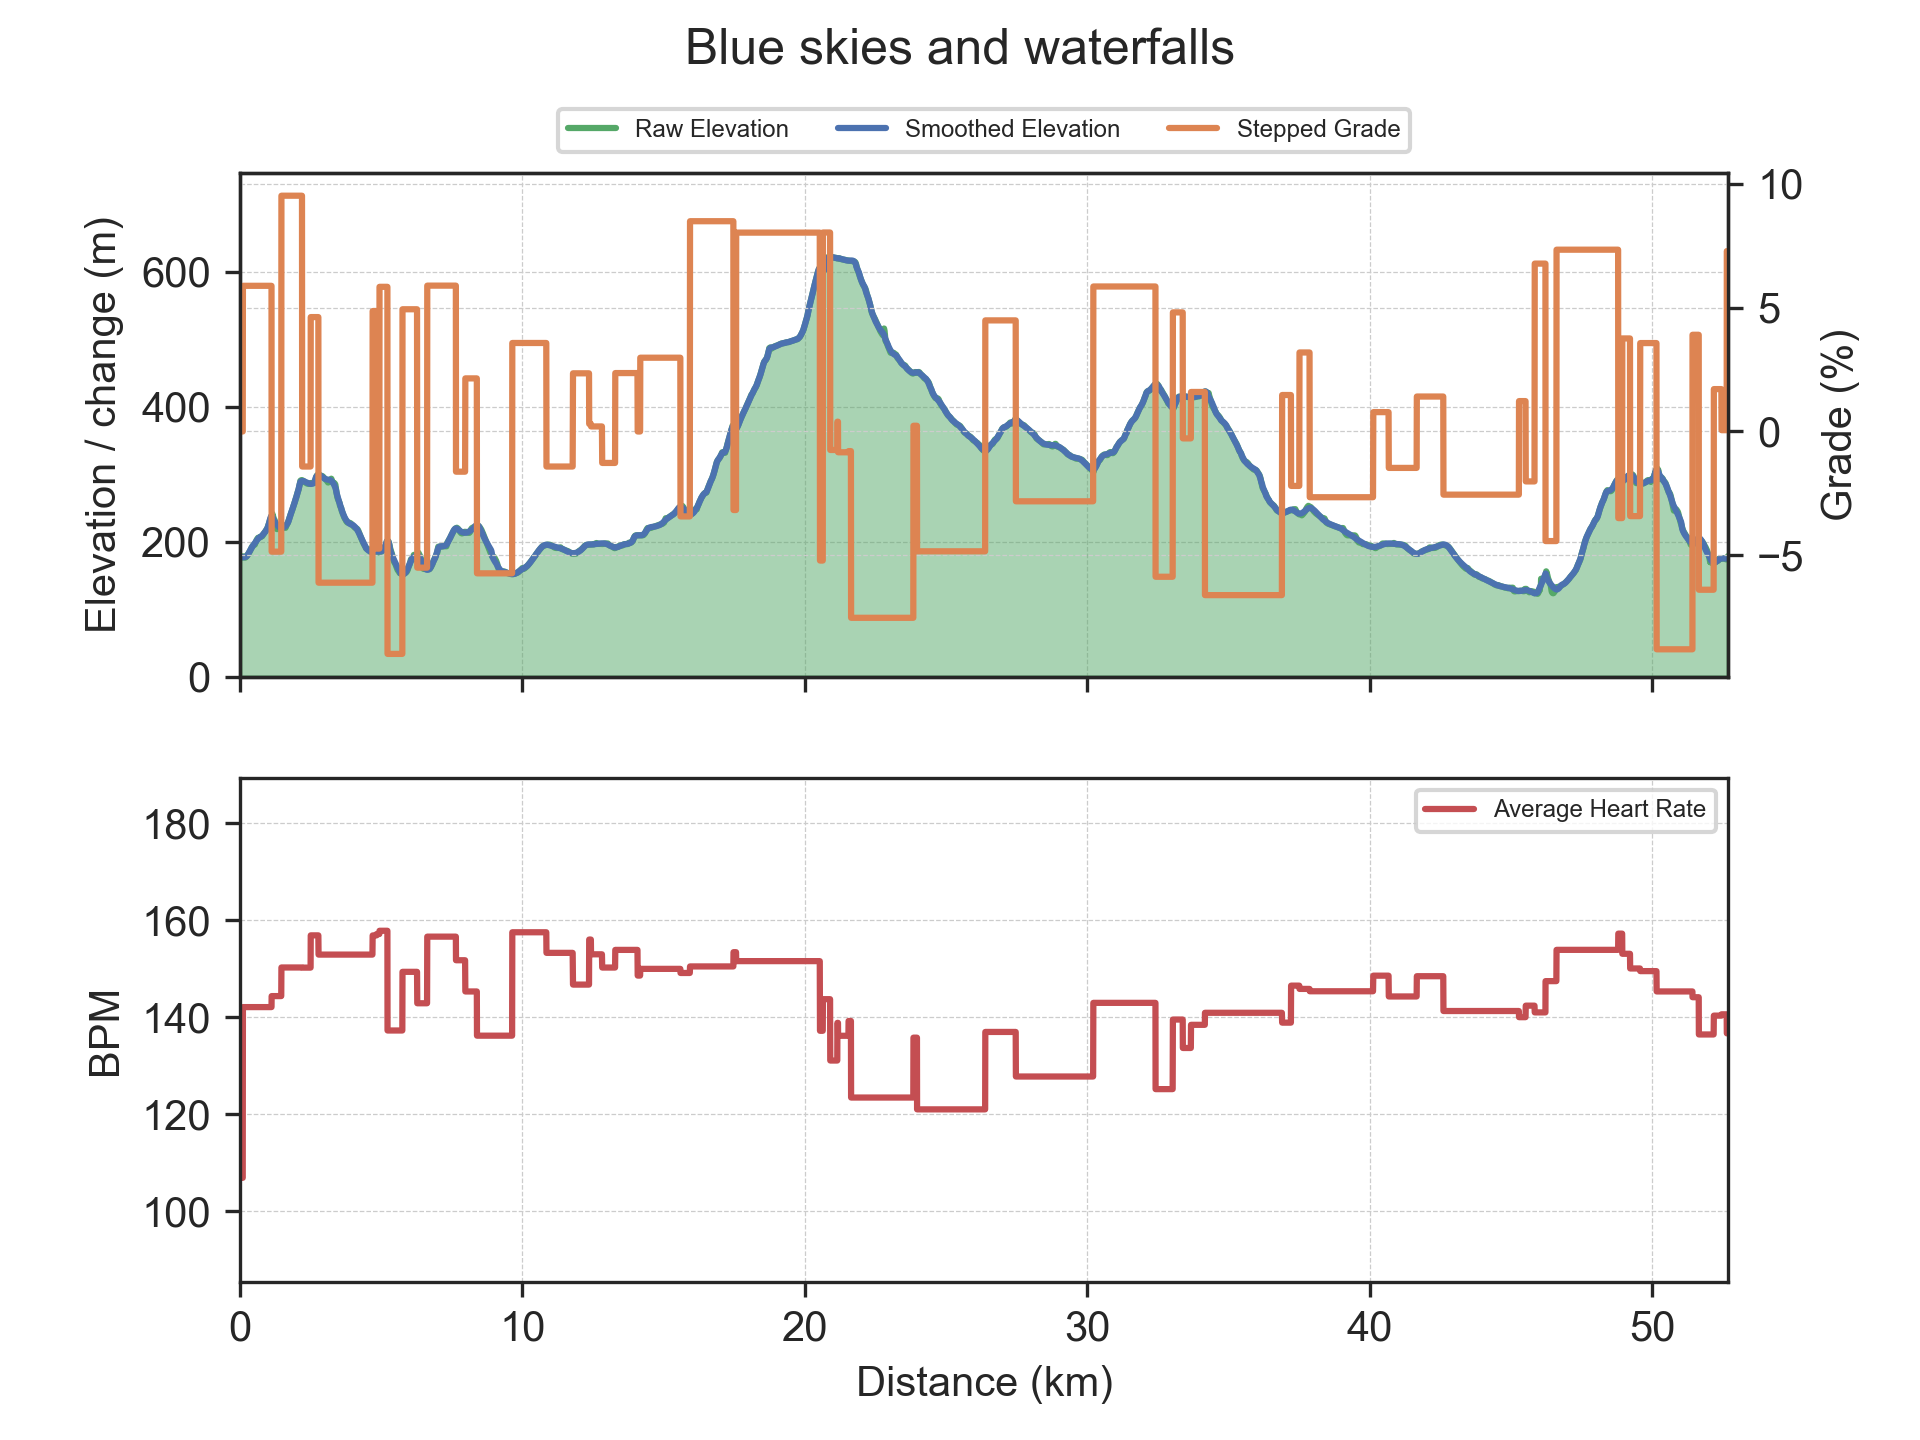
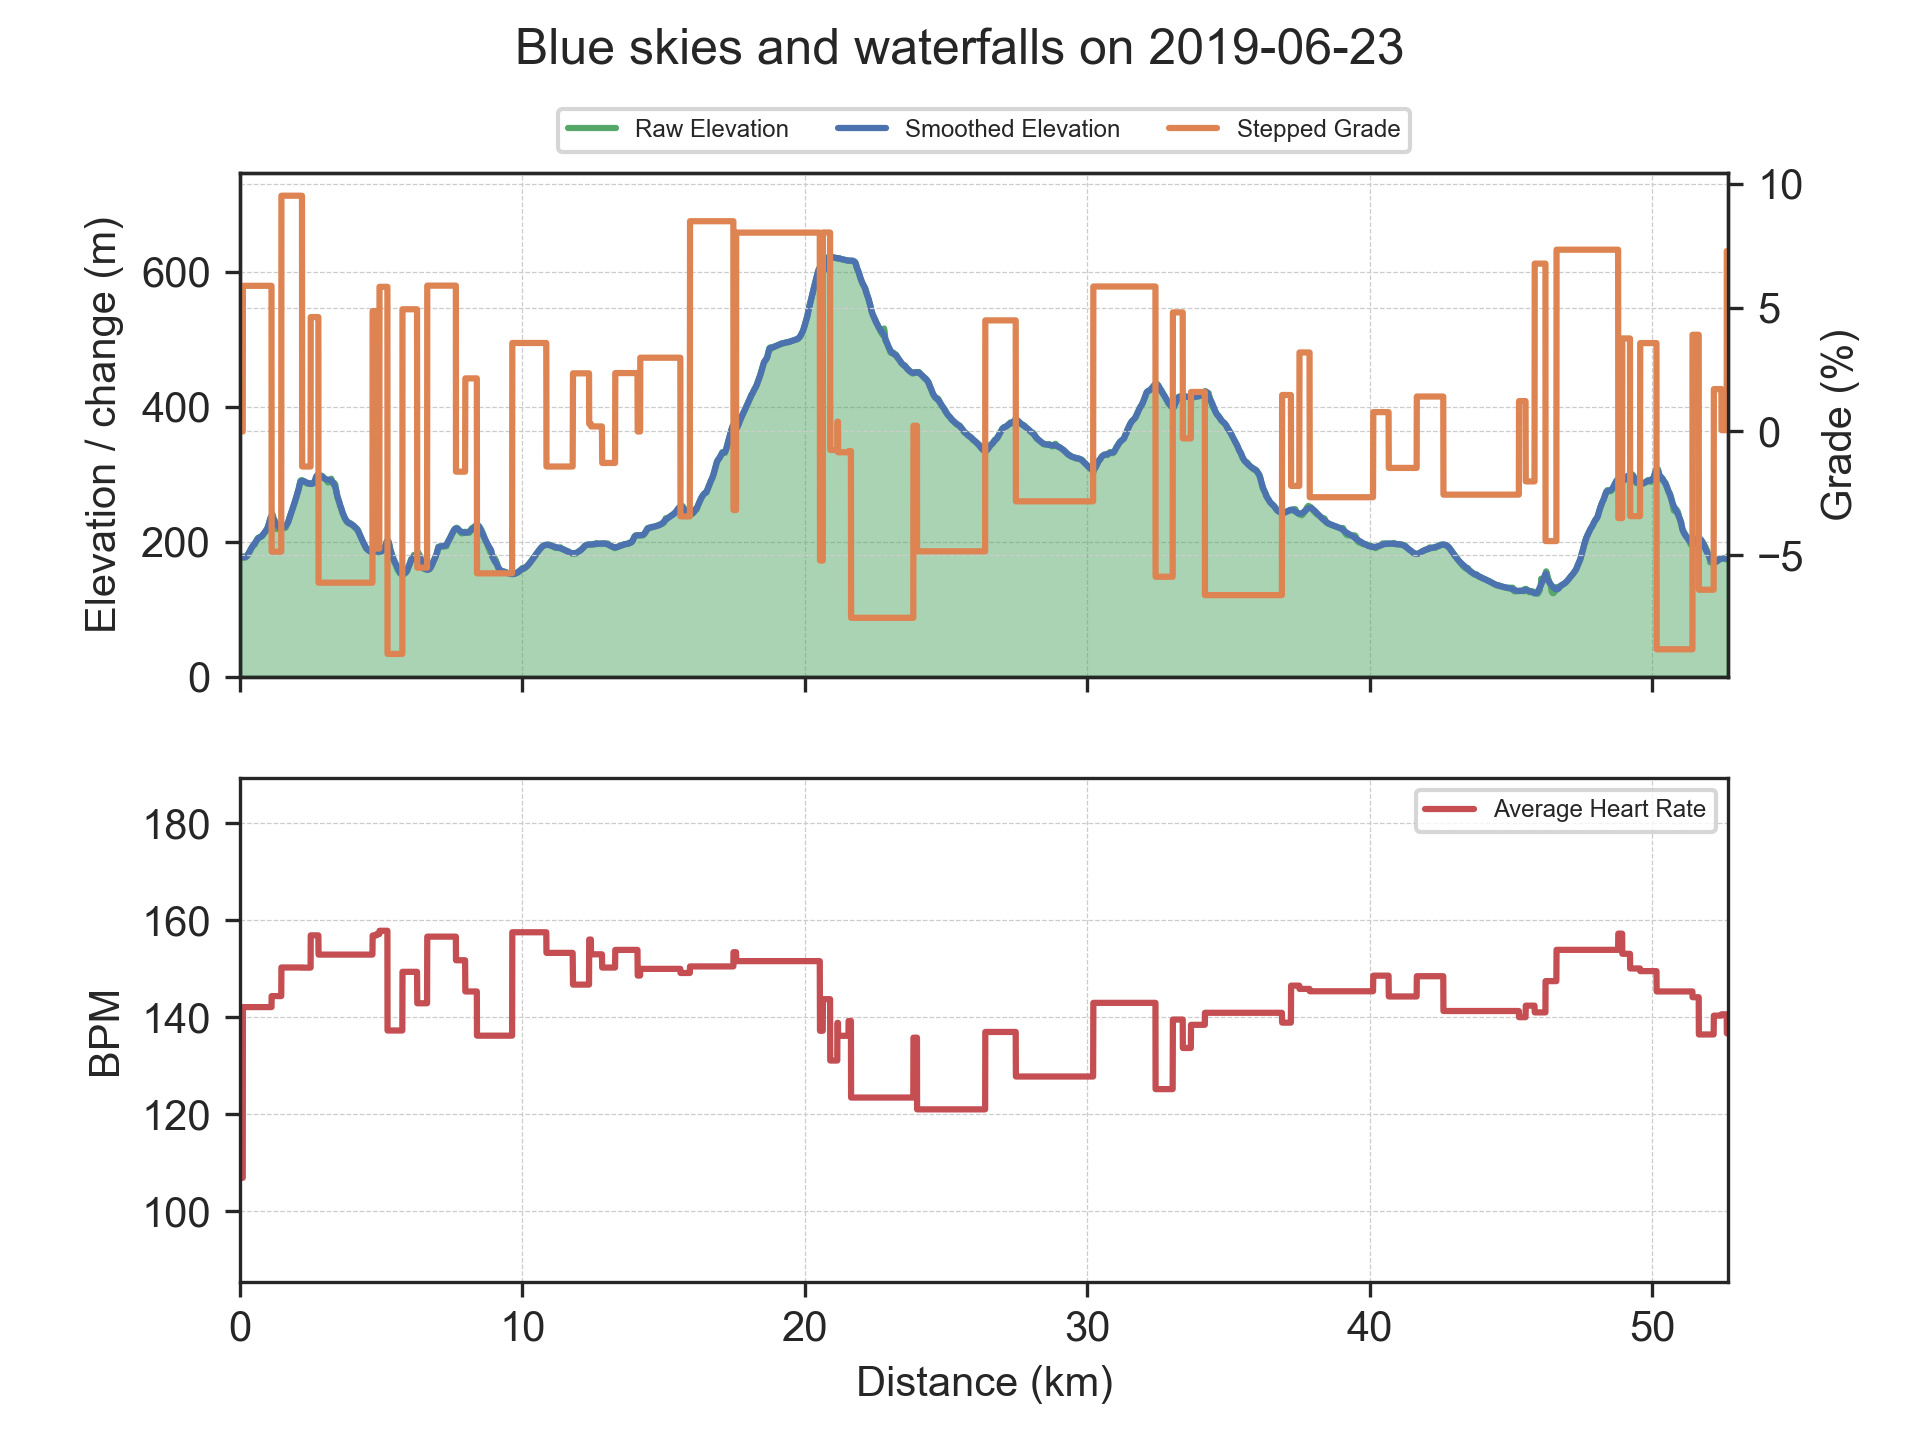
Added the date to the title
Will do time some other time – need to figure out how to deal with the timezone (marrying the GPX's UTC time and the system timezone).

Changed region(s): [[0.2812, 0.0, 0.7188, 0.0625]]

diff --git a/gpx/grade.py b/gpx/grade.py
@@ -119,7 +119,6 @@ if __name__ == "__main__":
 
     if args.plot_heart_rate and heart_rates:
         ax3.set_xlim(min(x), max(x))
-        # email me if you're alive if your heart rate exceeded 230 bpm
         ax3.set_ylim(min(heart_rate_averages)*(1 - _PLOT_PADDING), max(heart_rate_averages)*(1 + _PLOT_PADDING))
         ax3.plot(x[:-1], np.array(heart_rate_averages), color=palette[3], label='Average Heart Rate')
         ax3.set_xlabel('Distance (km)')
@@ -132,8 +131,8 @@ if __name__ == "__main__":
     ax1.legend(h1 + h2, l1 + l2, loc='upper center', bbox_to_anchor=(0.5, 1.15), ncol=3 , fontsize='xx-small')
 
     if track.name:
-        # TODO: track.get_time_bounds().start_time + date
-        f.suptitle(track.name)
+        # TODO: time
+        f.suptitle("{} on {}".format(track.name.strip(), track.get_time_bounds().start_time.date()))
 
     (input_basename, _) = os.path.splitext(os.path.basename(args.filename))
     output_filename = '.'.join([input_basename, "png"])
